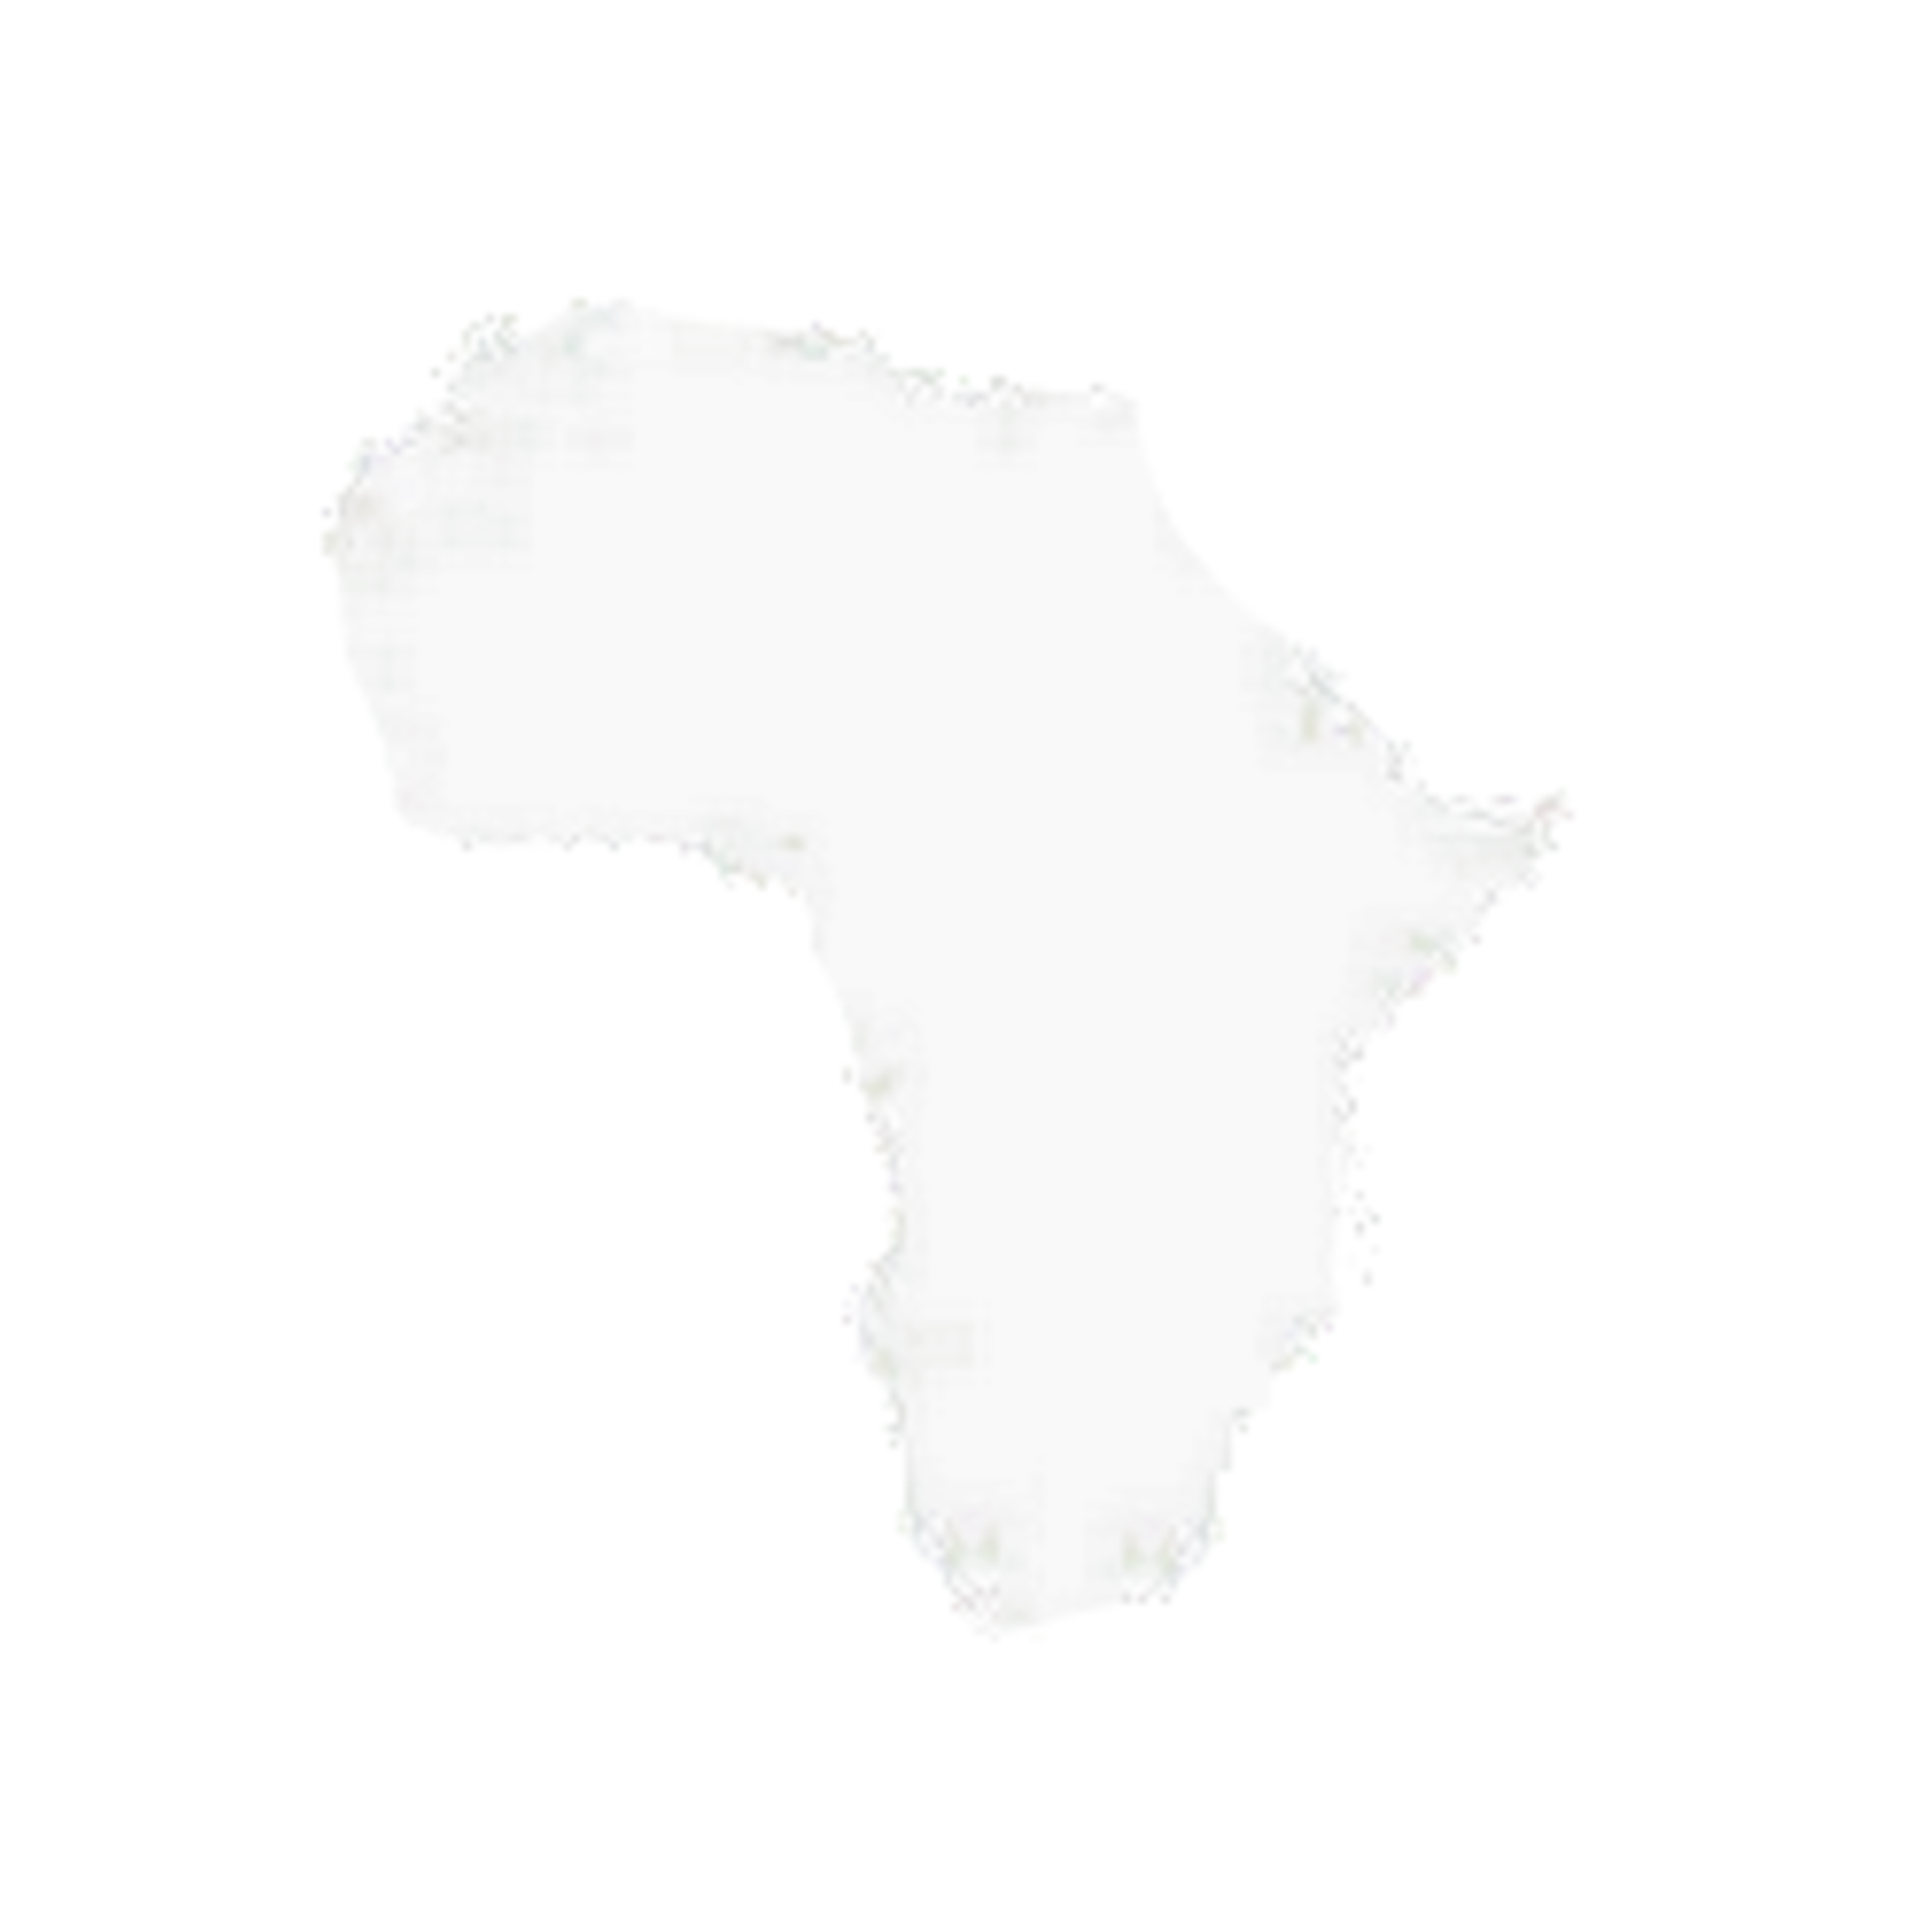
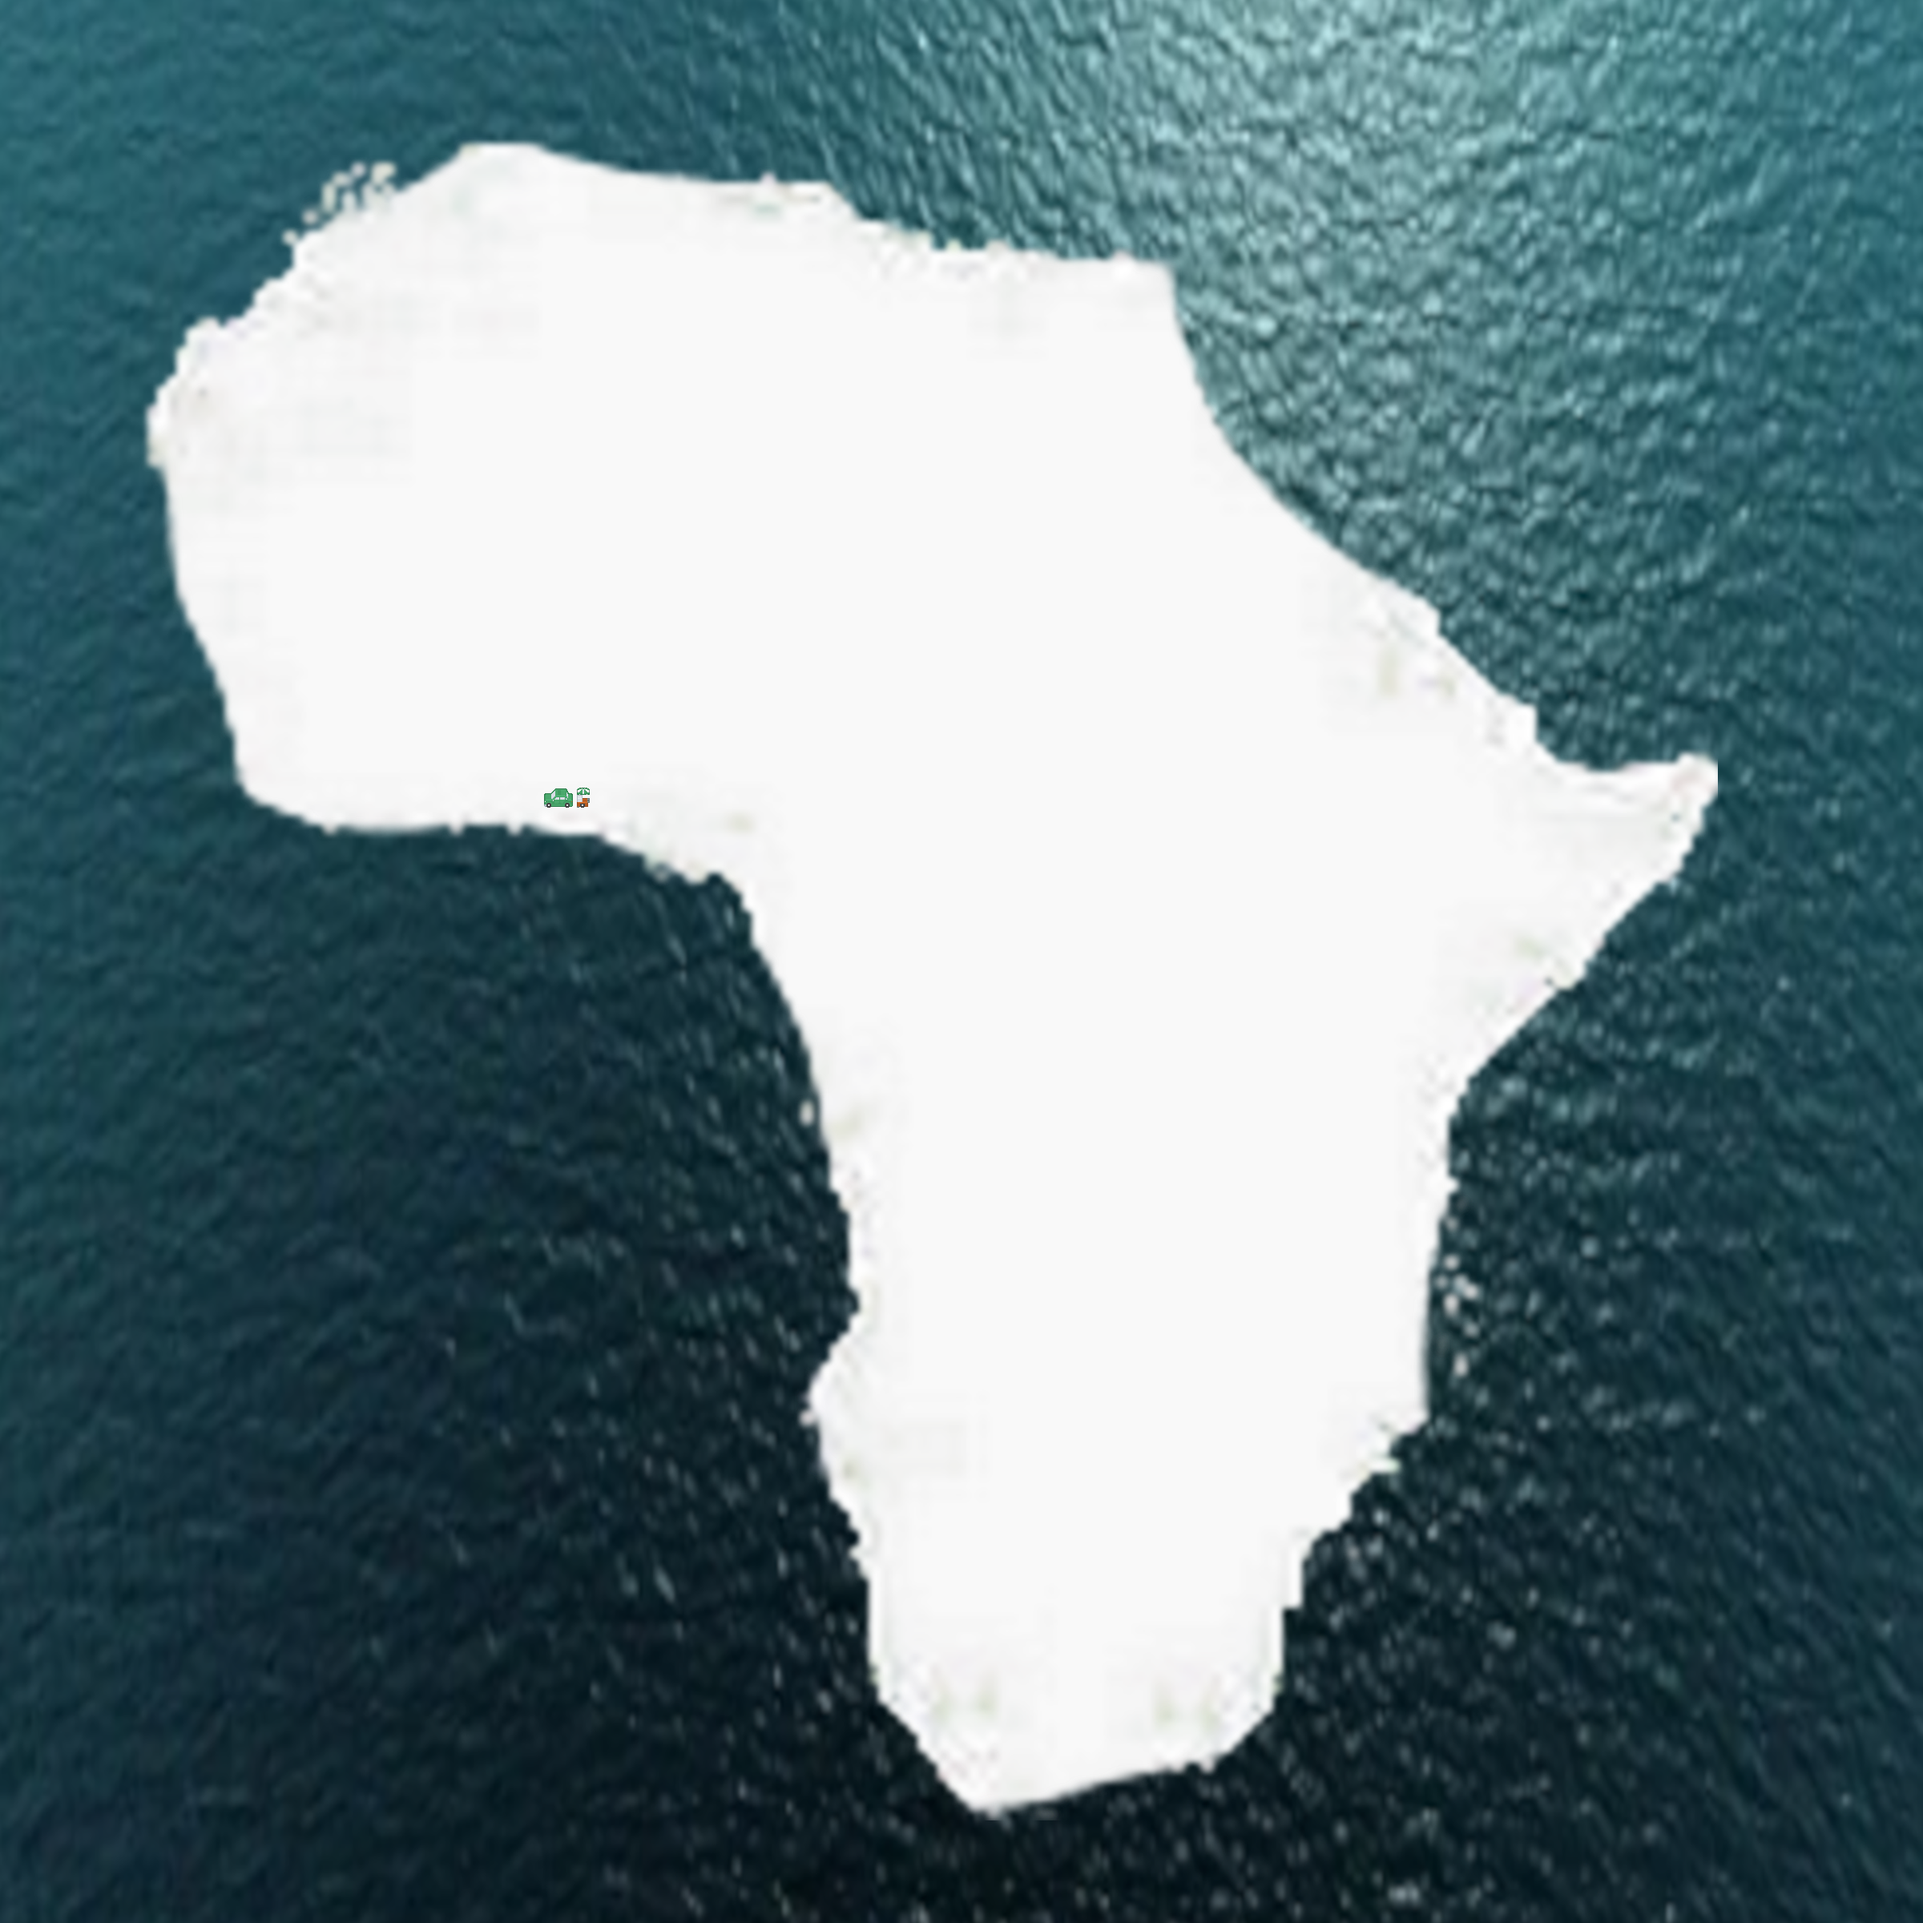
Make Africa Great Again.

diff --git a/resources/src/maps/africa.tsx b/resources/src/maps/africa.tsx
@@ -1,4 +1,4 @@
 <?xml version="1.0" encoding="UTF-8"?>
-<tileset version="1.8" tiledversion="1.8.2" name="africa" tilewidth="16" tileheight="16" tilecount="19460" columns="139">
- <image source="assets/africa.png" trans="ff00ff" width="2229" height="2247"/>
+<tileset version="1.8" tiledversion="1.8.2" name="africa" tilewidth="16" tileheight="16" tilecount="19966" columns="134">
+ <image source="assets/africa.png" trans="ff00ff" width="2152" height="2392"/>
 </tileset>

diff --git a/resources/src/maps/ocean.tsx b/resources/src/maps/ocean.tsx
@@ -1,0 +1,4 @@
+<?xml version="1.0" encoding="UTF-8"?>
+<tileset version="1.8" tiledversion="1.8.2" name="ocean" tilewidth="16" tileheight="16" tilecount="27300" columns="156">
+ <image source="assets/ocean.png" trans="ff00ff" width="2500" height="2800"/>
+</tileset>
